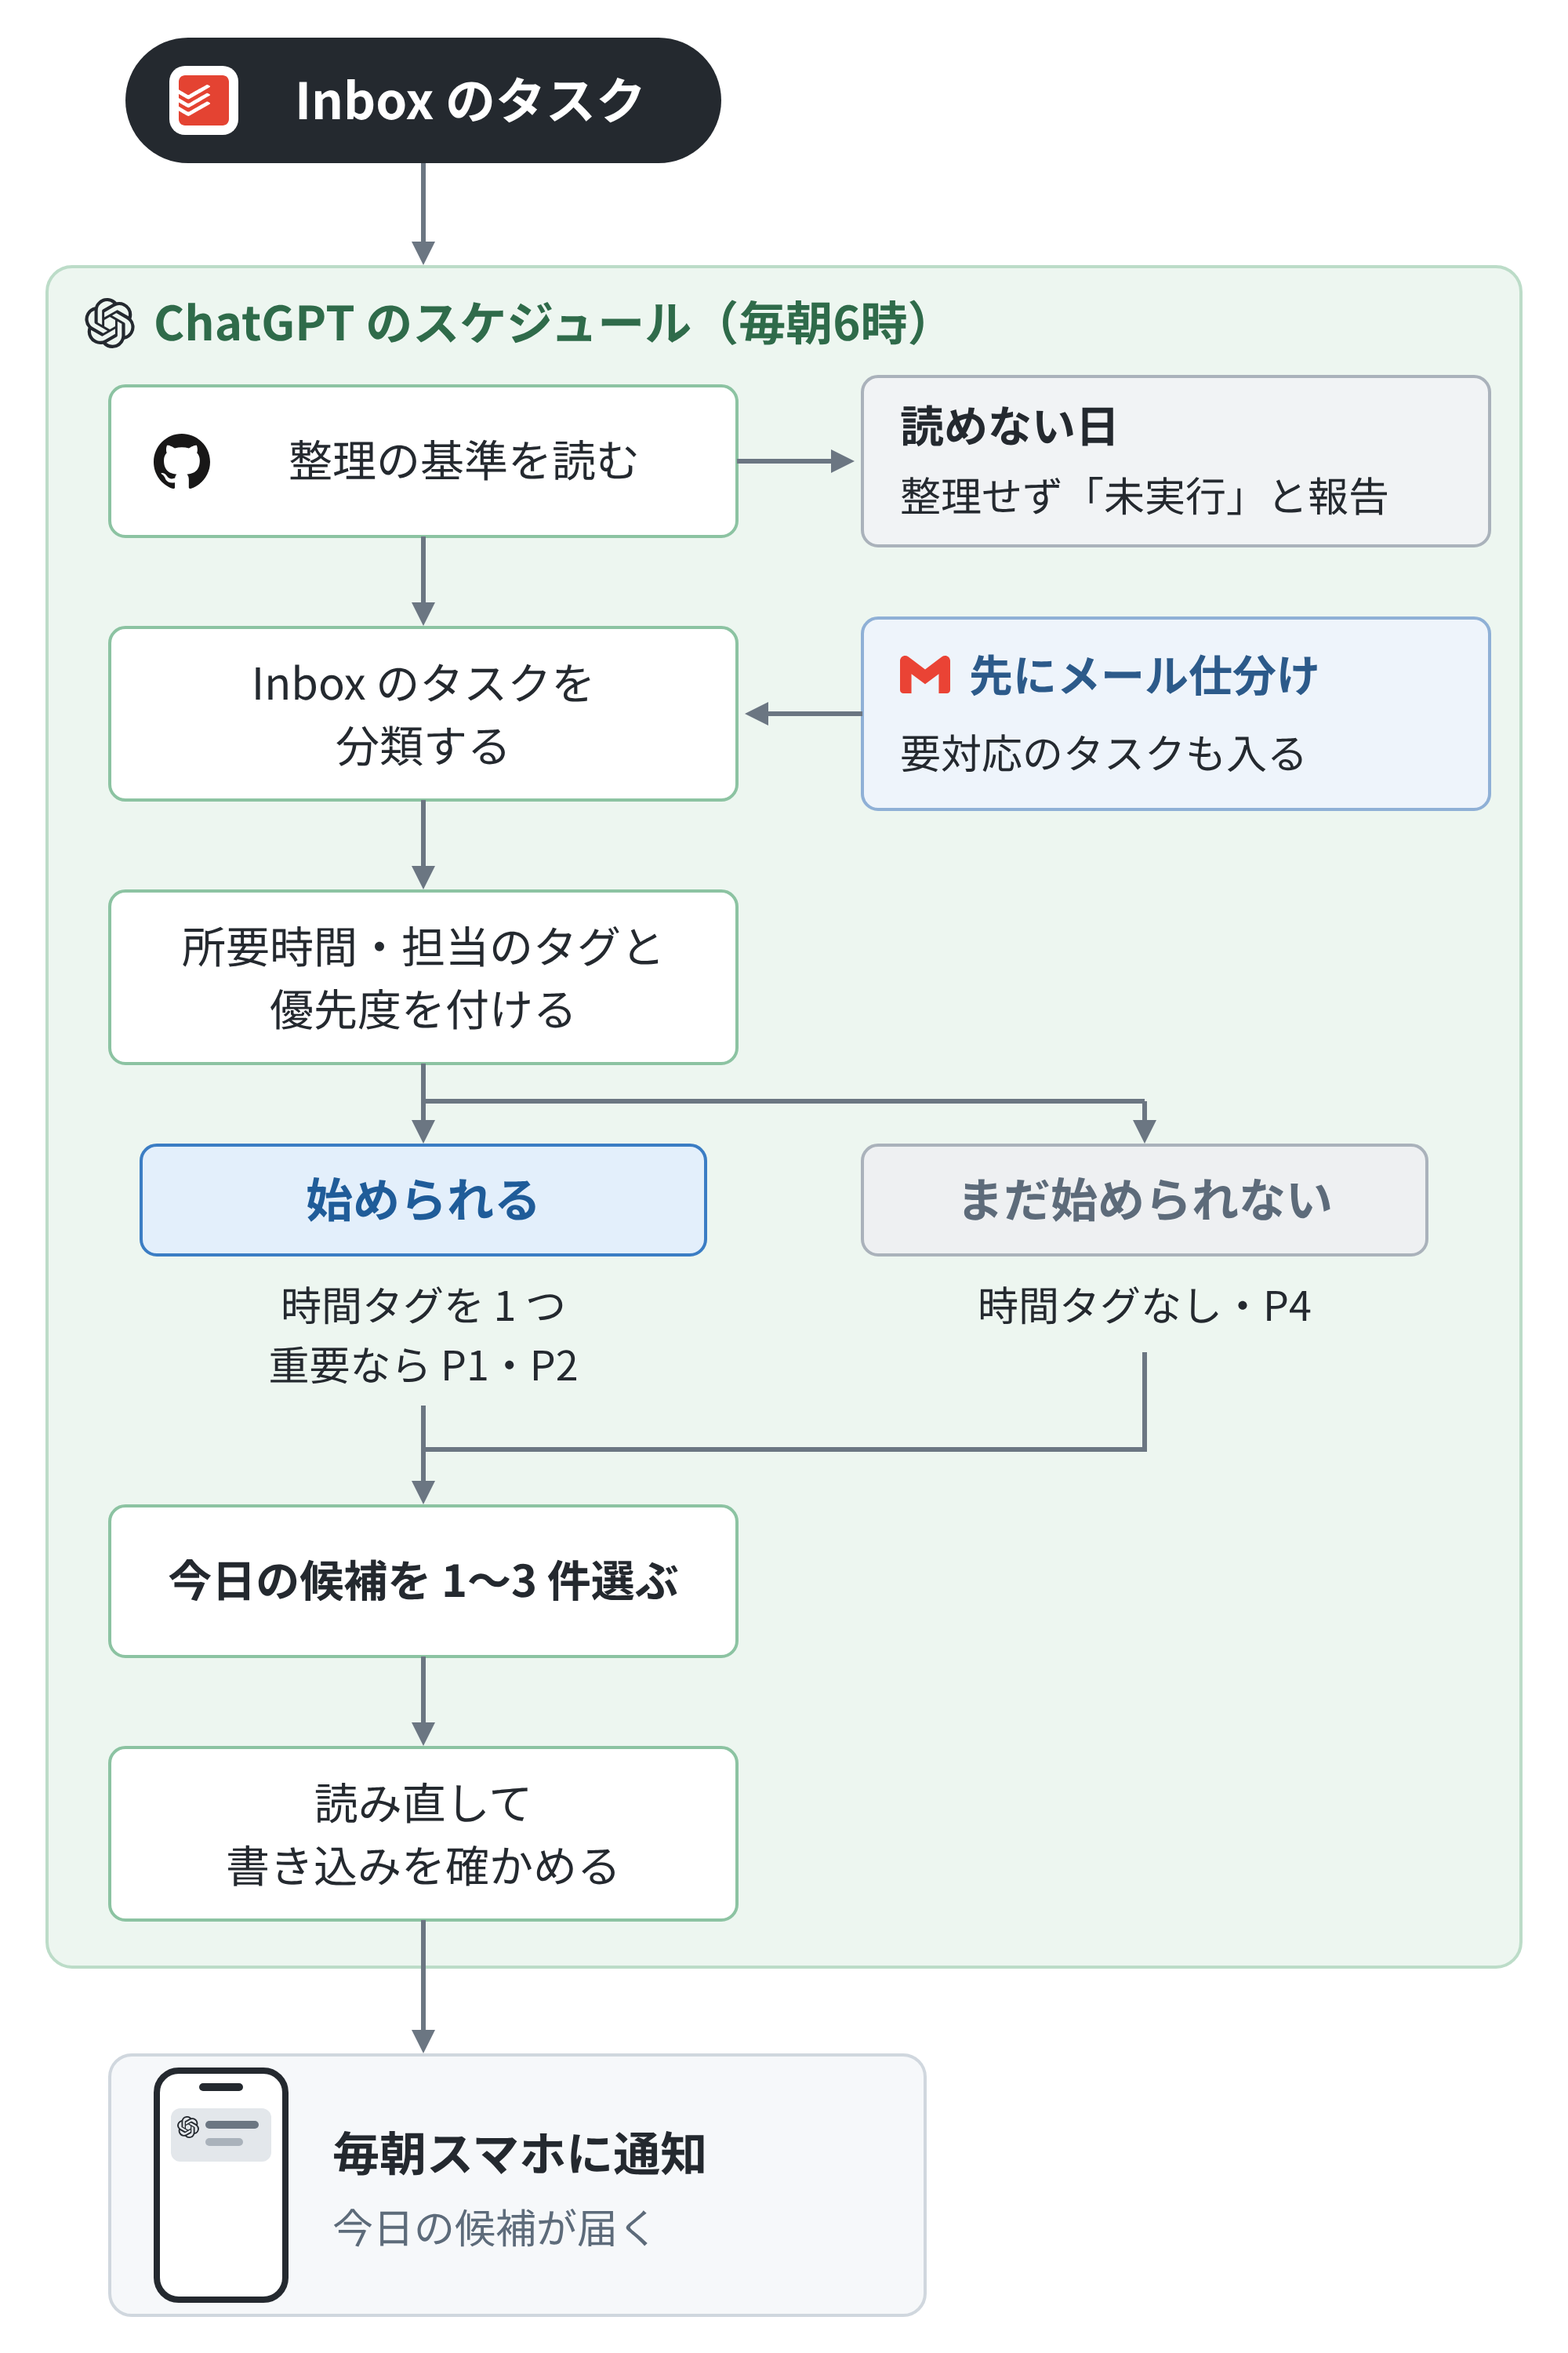
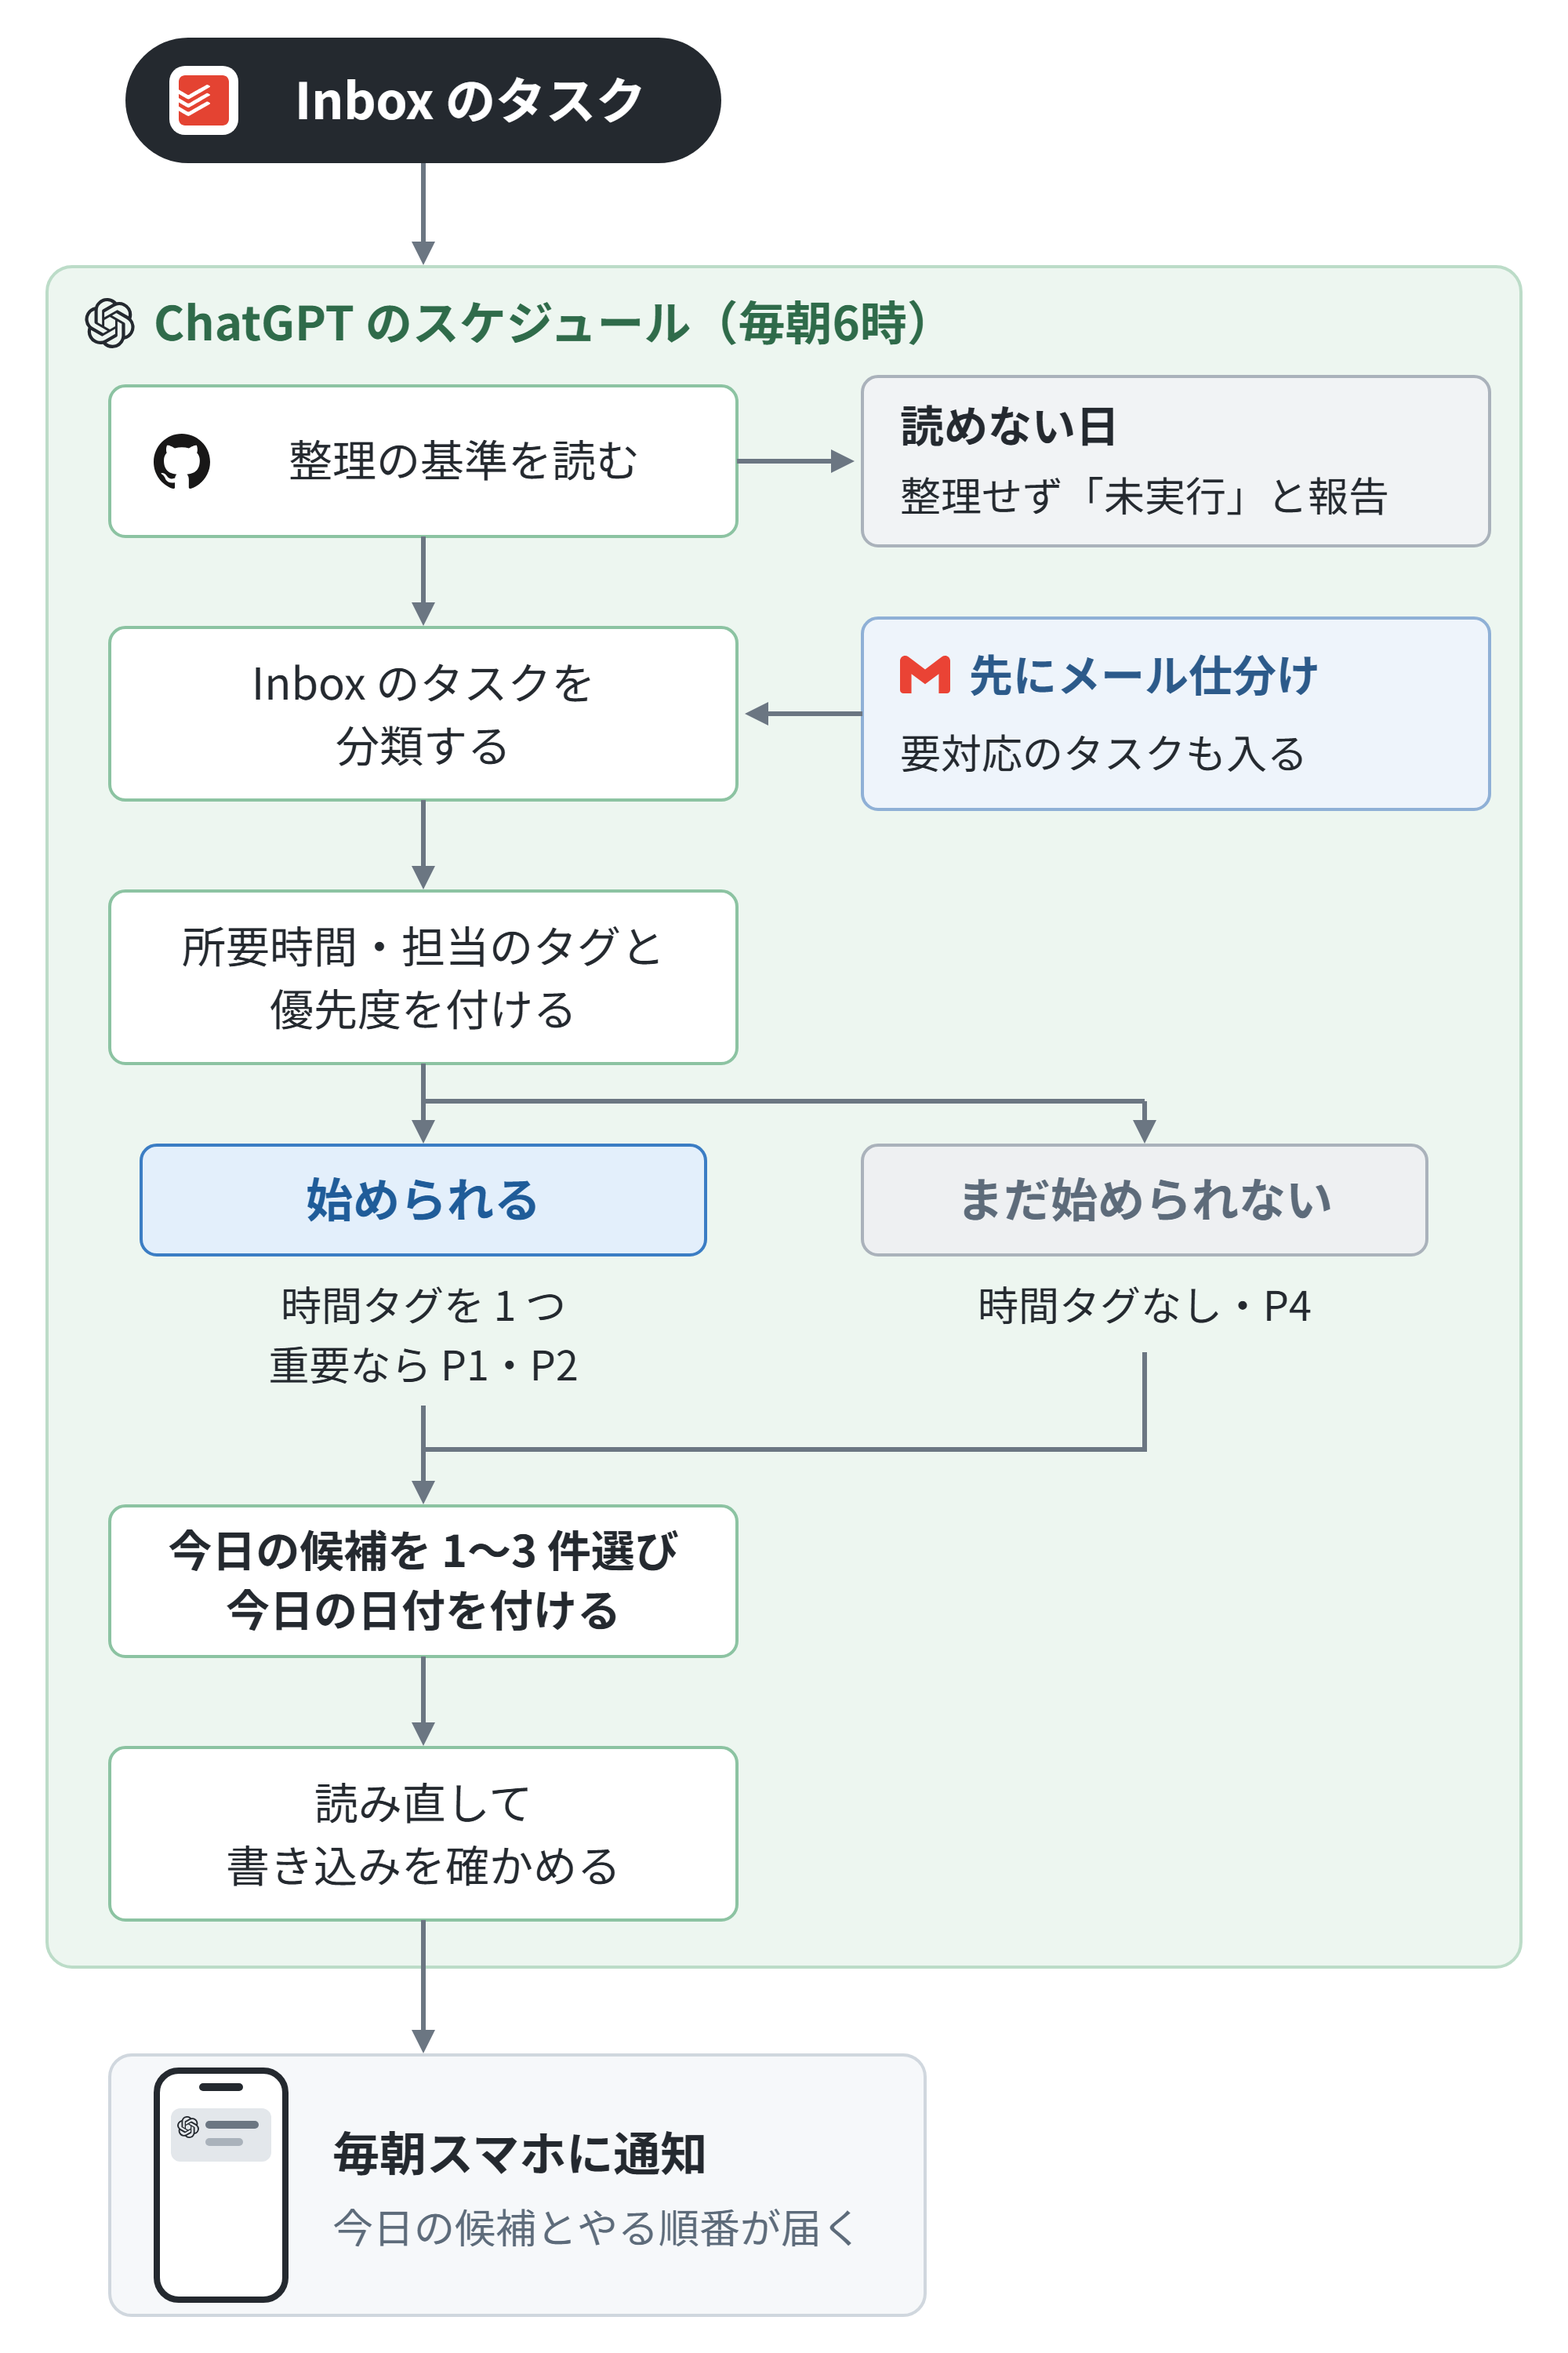
Todoist 整理：今日の候補に今日の日付を付け、やる順番を朝の報告で届ける今の仕様に、流れ図・README・meta を合わせる（日付が来た日に時間タグを付けることも足す。2026-11-08 に Todoist を読んで確かめた）

Changed region(s): [[0.093, 0.651, 0.434, 0.713], [0.341, 0.93, 0.527, 0.961]]

diff --git a/cases/daily-todoist-triage/flow.html b/cases/daily-todoist-triage/flow.html
@@ -91,7 +91,8 @@
   <polyline points="730,862 730,924 270,924" class="line"/>
   <line x1="270" y1="896" x2="270" y2="956" class="line" marker-end="url(#arrow)"/>
   <rect x="70" y="960" width="400" height="96" rx="10" fill="#ffffff" stroke="#8cc3a2" stroke-width="2"/>
-  <text x="270" y="1018" text-anchor="middle" class="t-m ink" font-weight="700">今日の候補を 1〜3 件選ぶ</text>
+  <text x="270" y="999" text-anchor="middle" class="t-m ink" font-weight="700">今日の候補を 1〜3 件選び</text>
+  <text x="270" y="1037" text-anchor="middle" class="t-m ink" font-weight="700">今日の日付を付ける</text>
 
   <!-- 5. 読み直し -->
   <line x1="270" y1="1056" x2="270" y2="1110" class="line" marker-end="url(#arrow)"/>
@@ -109,7 +110,7 @@
   <rect x="131" y="1352" width="34" height="5" rx="2.5" fill="#6b7682"/>
   <rect x="131" y="1363" width="24" height="5" rx="2.5" fill="#aab2bb"/>
   <text x="212" y="1384" class="t-l ink">毎朝スマホに通知</text>
-  <text x="212" y="1430" class="t-s muted">今日の候補が届く</text>
+  <text x="212" y="1430" class="t-s muted">今日の候補とやる順番が届く</text>
 </svg>
 </body>
 </html>

diff --git a/cases/daily-todoist-triage/README.md b/cases/daily-todoist-triage/README.md
@@ -12,14 +12,14 @@
 
 - 編集するのはInboxだけ。ほかのプロジェクトは近い期限を確かめるだけ。繰り返しのプロジェクトとその配下は除く。
 - 確定した期限と、開始の条件を分けて扱う。着手待ちのタスクは時間タグを付けずにP4にする。P1/P2にするのは着手できるものだけ。
-- 今日の候補は1〜3件。更新後に再取得し、日付・親子関係・既存のタグが残っているかを確かめる。
+- 今日の候補は1〜3件。日付の無い候補にはAI提案として今日の日付を付け、Todoistの「今日」の画面に出す。やる順番は朝の報告に書く。更新後に再取得し、日付・親子関係・既存のタグが残っているかを確かめる。
 
 同じ毎朝の処理で先に[メール仕分け](../daily-email-triage/)を行い、そこで登録されたタスクも整理する。
 
 <details>
 <summary>整理の手順の流れ図を見る</summary>
 
-![整理の基準を読み、Inboxのタスクを分類してタグと優先度を付け、今日の候補を1〜3件選び、書き込みを読み直して毎朝スマホに知らせる流れ](flow.png)
+![整理の基準を読み、Inboxのタスクを分類してタグと優先度を付け、今日の候補を1〜3件選んで今日の日付を付け、書き込みを読み直して、今日の候補とやる順番を毎朝スマホに知らせる流れ](flow.png)
 
 </details>
 
